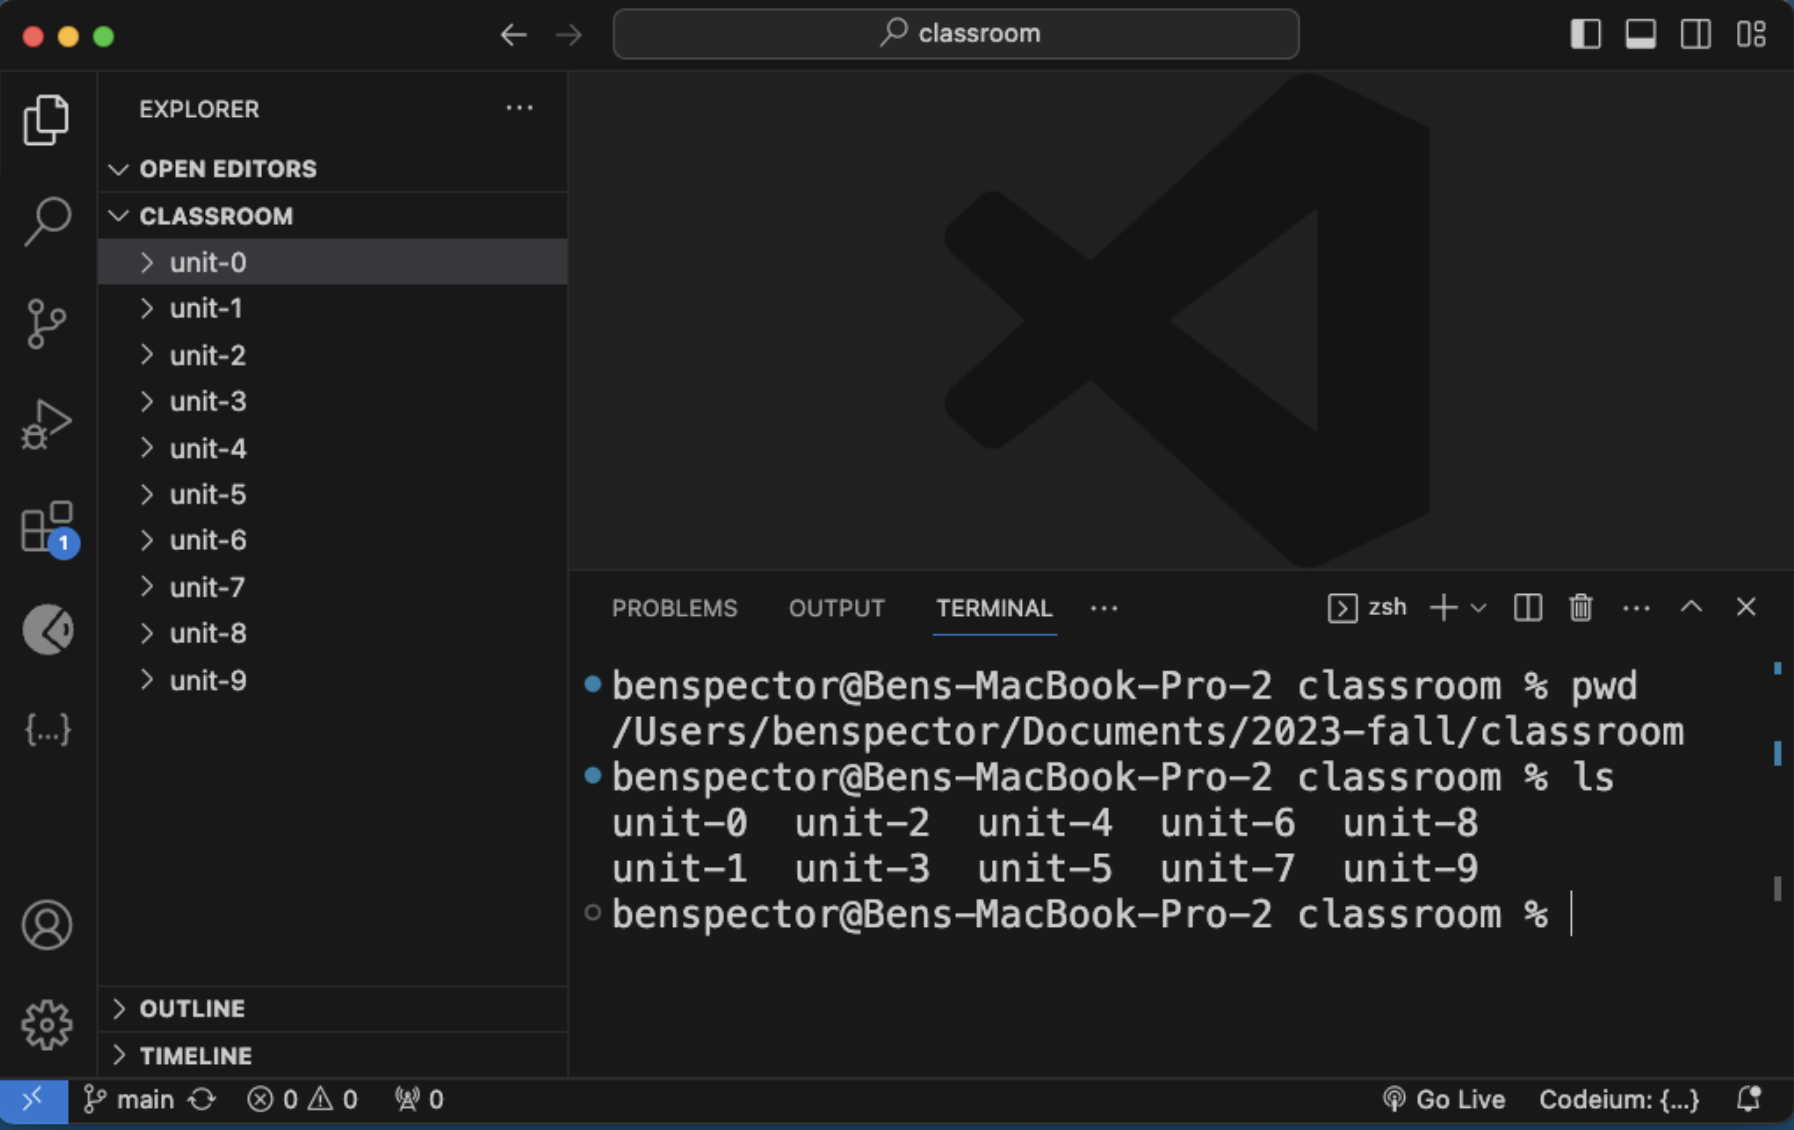
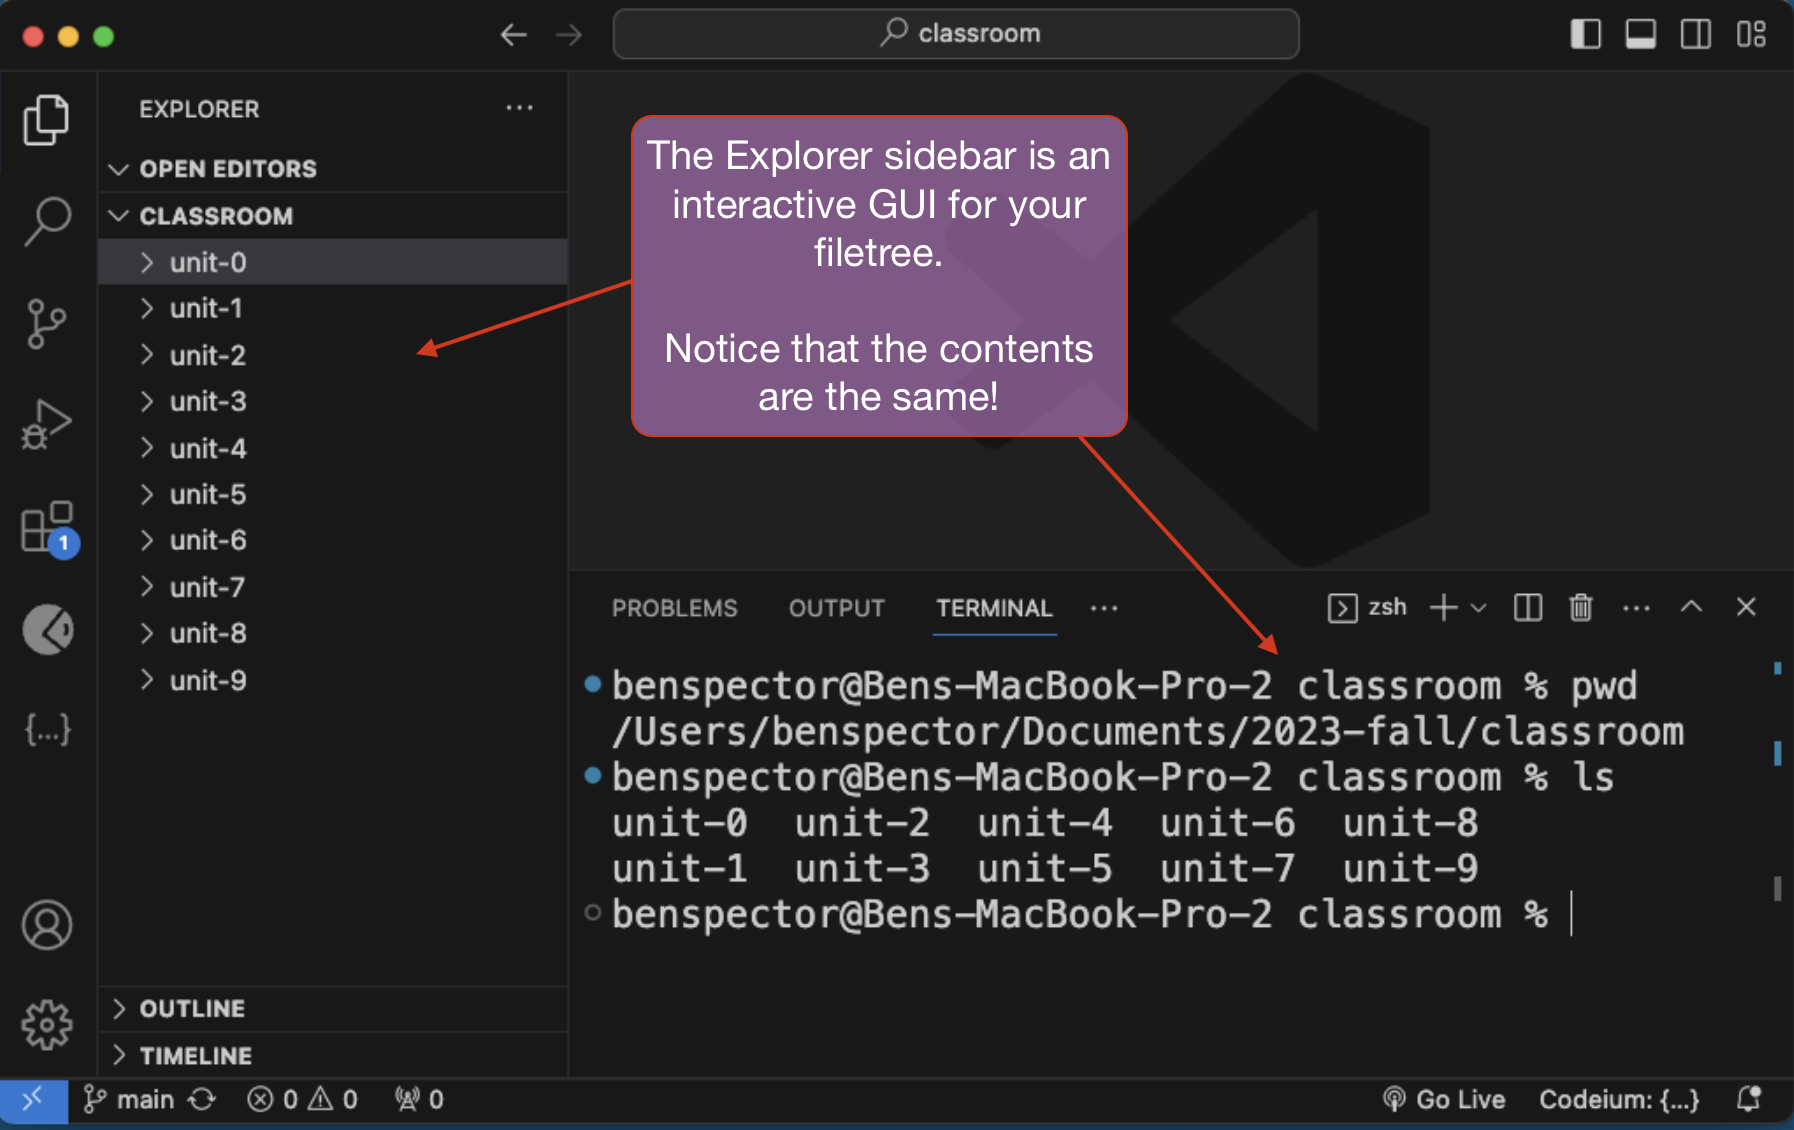
updating lesson with new graphics and better structure

diff --git a/mod-0-command-line-interfaces-git-and-github/1-clis.md b/mod-0-command-line-interfaces-git-and-github/1-clis.md
@@ -16,18 +16,20 @@ You will be able to…
   
 **Table of Contents:**
 - [Key Terms \& Commands](#key-terms--commands)
-- [Terminal (CLI) vs. Finder/Explorer (GUI)](#terminal-cli-vs-finderexplorer-gui)
-- [Using the Terminal in VS Code](#using-the-terminal-in-vs-code)
-- [Commands](#commands)
-  - [Printing Directory Information with `pwd` and `ls`](#printing-directory-information-with-pwd-and-ls)
+- [The File Tree](#the-file-tree)
+  - [Applications for Viewing the File Tree (CLI vs. GUI)](#applications-for-viewing-the-file-tree-cli-vs-gui)
+  - [Using the Terminal in VS Code](#using-the-terminal-in-vs-code)
+- [Essential Commands](#essential-commands)
+  - [Looking at the Working Directory with `pwd` and `ls`](#looking-at-the-working-directory-with-pwd-and-ls)
   - [Navigating Between Directories with `cd`](#navigating-between-directories-with-cd)
-  - [Be Careful when using the `cd` command!](#be-careful-when-using-the-cd-command)
+    - [Be Careful when using the `cd` command!](#be-careful-when-using-the-cd-command)
   - [Making Files and Directories with `mkdir` and `touch`](#making-files-and-directories-with-mkdir-and-touch)
-  - [Executing JavaScript files with `node`](#executing-javascript-files-with-node)
+    - [Executing JavaScript files with `node`](#executing-javascript-files-with-node)
   - [Terminating a Program with `Control+C`](#terminating-a-program-with-controlc)
+- [Additional Commands](#additional-commands)
   - [Unfinished Double Quotes and `echo`](#unfinished-double-quotes-and-echo)
   - [The `cat` Command and Combining Commands with `&&`](#the-cat-command-and-combining-commands-with-)
-  - [Removing, Renaming, and Copying](#removing-renaming-and-copying)
+  - [Removing, Renaming, Moving, and Copying](#removing-renaming-moving-and-copying)
 - [Challenges](#challenges)
 
 ## Key Terms & Commands
@@ -52,29 +54,49 @@ You will be able to…
 ```sh
 # Run a given `.js` file using Node.
 node [filename.js]
+
 # Terminate the currently running program
-Control + C          
+Control + C
+
 # Print the working directory, a.k.a where your terminal navigation currently is located.
-pwd                  
+pwd
+
 # Prints ("lists") the contents of the working directory
-ls                   
-# Change directories to the given directory
-cd [directory]       
+ls    
+
+# Change directories to the given subdirectory
+cd [subdirectory]
+
 # Change directories to the parent of the working directory
-cd ../               
+cd ../
+
 # Make a new directory with the given name.
-mkdir [directory]     
+mkdir [subdirectory]
+
 # Make a new file with the given name
-touch [filename]    
+touch [filename]
+
 # Move a file to the given directory
-cp [file] [dest]     
+cp [file] [dest]
 ```
 
-## Terminal (CLI) vs. Finder/Explorer (GUI)
+## The File Tree
 
-To become a master programmer means first mastering your computer's files.
+The files and folders in your computer are organized in a tree-like structure called the **File Tree**.
 
-If you've ever dug into your computer's file system, you likely have done so using a program like Finder or Windows Explorer.
+![](img/file-structure.png)
+
+We refer to each folder in the file tree as a **directory**. The **root directory** is the top-most folder that contains all other **sub-directories**.
+
+**<details><summary>Q: What are the ways that the file tree is tree-like?</summary>**
+
+The root is like the trunk of the tree and each sub-directory is a branch that can have more branches.
+
+</details>
+
+### Applications for Viewing the File Tree (CLI vs. GUI)
+
+Most operating systems have an application that lets you view the device's file tree. For example, on MacOS there is Finder and on Windows there is Explorer:
 
 ![The finder program](img/finder.png)
 
@@ -112,8 +134,6 @@ Note that some commands like `pwd` can be entered on their own. Other commands l
 
 <summary><strong>Q: Why use The Terminal?? It would be wayyy faster to do this in the Finder</strong></summary>
 
-Use the Tab key to autocomplete commands and filenames! Just start typing and hit Tab to autocomplete.
-
 For this particular task it might be faster to use a GUI file manager like Finder, however there are many tasks where a CLI like the Terminal can outpace a GUI like Finder.
 
 For example, try this command below to create 8 folders at once!
@@ -126,7 +146,7 @@ In addition, there are some things that Finder simply can't do, like execute fil
 
 </details>
 
-## Using the Terminal in VS Code
+### Using the Terminal in VS Code
 
 While you can use the Terminal application that comes with your laptop, it is often just as convenient to use the one that comes built into your VS Code code editor.
 
@@ -134,22 +154,26 @@ To open up the Terminal panel, go to **File** > **Terminal** and it should show 
 
 ![Use the keyboard shortcut Control+\` to open/close the Terminal](img/vscode-terminal.png)
 
-## Commands
+## Essential Commands
 
 Let's go through some of the most important and commonly used commands.
 
-### Printing Directory Information with `pwd` and `ls`
+### Looking at the Working Directory with `pwd` and `ls`
 
-A **directory** is another term for a "folder" in your computer's file system that contains references to files or possibly other directories.
+In the terminal, you can only interact with one directory at a time, the **working directory**.
 
-The **working directory** is the current location of your terminal's navigation through that file system and where all commands are executed. Think of it as the "you are here" icon in a map.
+Think of it as the "you are here" icon in a map.
+
+![The working directory is your current location in your file tree.](./img/you-are-here.png)
 
 The `pwd` command prints the full file path to the working directory while the `ls` command prints the contents of the working directory:
 
 ![](img/ls.png)
 
 {% hint style="info" %}
-**Note:** In computing, most actions fall into one of the four categories called CRUD: **c**reating, **r**eading, **u**pdating, or **d**eleting data. Which of these actions do you think `pwd` and `ls` are?
+**Note:** In computing, all actions that interact with data fall into one of the four categories called CRUD: **c**reating, **r**eading, **u**pdating, or **d**eleting data. 
+
+Which of these actions do you think `pwd` and `ls` are?
 {% endhint %}
 
 ### Navigating Between Directories with `cd`
@@ -158,9 +182,13 @@ The `cd <directory>` command allows you to move to another directory in the file
 
 An **argument** is an additional piece of information that changes that behavior of a given command. For the `cd` command, we have to also provide a destination.
 
+{% hint style="info" %}
+Use the Tab key to autocomplete commands and filenames! Just start typing and hit Tab to autocomplete.
+{% endhint %}
+
 For example, suppose we were located in the `/Users` directory inside the following file system:
 
-![](img/file-structure.png)
+![The file tree](img/file-structure.png)
 
 I could navigate to "down" to the `/Users/smith` directory with the command:
 
@@ -198,7 +226,7 @@ cd ../../jones/Desktop
 
 </details>
 
-### Be Careful when using the `cd` command!
+#### Be Careful when using the `cd` command!
 
 Using the `cd` command on its own will send you to the root of your entire file system (`~/`). This is the equivalent of using the command:
 
@@ -219,7 +247,7 @@ touch file1.txt file2.txt
 mkdir dir1 dir2 dir3
 ```
 
-### Executing JavaScript files with `node`
+#### Executing JavaScript files with `node`
 
 A JavaScript program is any file with a `.js` extension, like `hello.js`
 
@@ -236,6 +264,8 @@ Other programs can run forever, requiring us to stop them ourselves. For example
 ![The Node REPL is useful for testing out expressions.](img/1-node-repl-expressions.png)
 
 To terminate the program, use the keyboard shortcut `Control+C` (you may need to cancel twice).
+
+## Additional Commands
 
 ### Unfinished Double Quotes and `echo`
 
@@ -263,7 +293,7 @@ ls && cat output.txt
 
 For example, the command above lists the contents of the current working directory and print the contents of `output.txt`
 
-### Removing, Renaming, and Copying
+### Removing, Renaming, Moving, and Copying
 
 `rm <file_name>` removes a file from the working directory
 
